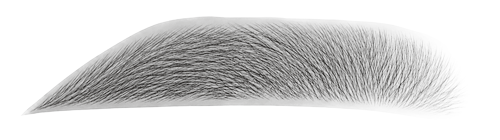
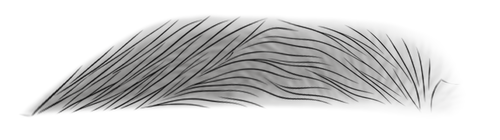
Build 100

Changed region(s): [[0.06, 0.1143, 0.9, 0.8286]]

diff --git a/sw.js b/sw.js
@@ -9,7 +9,7 @@
  *
  * clients.claim() 은 하지 않는다. 처음 연 날 화면이 한 번 더 새로 뜨는 것을 막는다.
  */
-const VERSION = "pmus-99";
+const VERSION = "pmus-100";
 const PRECACHE = ["assets/eyebrow_refs/female_arch_combo.png","assets/eyebrow_refs/female_arch_gradation.png","assets/eyebrow_refs/female_arch_natural.png","assets/eyebrow_refs/female_semiarch_combo.png","assets/eyebrow_refs/female_semiarch_gradation.png","assets/eyebrow_refs/female_semiarch_natural.png","assets/eyebrow_refs/female_straight_combo.png","assets/eyebrow_refs/female_straight_gradation.png","assets/eyebrow_refs/female_straight_natural.png","assets/eyebrow_refs/male_straight_combo.png","assets/eyebrow_refs/male_straight_gradation.png","assets/eyebrow_refs/male_straight_natural.png","assets/eyebrow_refs/sheet.png","assets/icons/icon-180.png","assets/icons/icon-192.png","assets/icons/icon-512.png","assets/icons/icon-maskable-512.png","assets/logo-full.png","assets/logo.png","assets/models/female_20s.jpg","assets/models/female_30s.jpg","assets/models/female_40s.jpg","assets/models/female_50s.jpg","assets/models/female_60s.jpg","assets/models/male_20s.jpg","assets/models/male_30s.jpg","assets/models/male_40s.jpg","assets/models/male_50s.jpg","assets/models/male_60s.jpg","changelog.json","css/app.css","css/brow.css","css/lip.css","css/mobile-ui.css","index.html","js/app.js","js/brow-canvas.js","js/brow-erase.js","js/brow-markup.html","js/custom-designs.js","js/face-detect.js","js/license.js","js/lip-canvas.js","js/lip-markup.html","js/mobile-ui.js","js/prepare-eyebrow.js","js/pwa.js","js/update.js","manifest.webmanifest","manual/index.html","manual/offline.html","models/face_landmarker.task","vendor/vision_bundle.mjs","vendor/wasm/vision_wasm_internal.js","vendor/wasm/vision_wasm_internal.wasm"];
 
 self.addEventListener("install", (e) => {

diff --git a/index.html b/index.html
@@ -12,12 +12,12 @@
 <meta name="mobile-web-app-capable" content="yes">
 <meta name="apple-mobile-web-app-status-bar-style" content="black-translucent">
 <meta name="apple-mobile-web-app-title" content="PMUS">
-<link rel="stylesheet" href="css/app.css?v=99">
+<link rel="stylesheet" href="css/app.css?v=100">
 </head>
 <body>
 
 <header class="app-bar">
-    <img src="assets/logo.png?v=99" alt="PMUS" class="app-logo" onerror="this.style.display='none'">
+    <img src="assets/logo.png?v=100" alt="PMUS" class="app-logo" onerror="this.style.display='none'">
     <h1 class="app-title">PMUS 반영구 시뮬레이터</h1>
     <div class="app-bar-end">
         <button id="diag-btn" class="diag-btn" type="button">버전</button>
@@ -28,7 +28,7 @@
 <!-- ── 라이선스 활성화 화면 ───────────────────────────────────────── -->
 <section id="license-gate" class="step license-gate" hidden>
     <div class="lic-card">
-        <img src="assets/logo-full.png?v=99" alt="PMUS — Permanent Makeup Simulator" class="lic-logo">
+        <img src="assets/logo-full.png?v=100" alt="PMUS — Permanent Makeup Simulator" class="lic-logo">
         <h2 class="lic-title">라이선스 등록</h2>
         <p class="lic-desc" id="lic-message">
             이 앱을 사용하려면 라이선스 등록이 필요합니다.<br>
@@ -315,7 +315,7 @@
     </div>
 </div>
 
-<script type="module" src="js/pwa.js?v=99"></script>
-<script type="module" src="js/app.js?v=99"></script>
+<script type="module" src="js/pwa.js?v=100"></script>
+<script type="module" src="js/app.js?v=100"></script>
 </body>
 </html>

diff --git a/js/mobile-ui.js b/js/mobile-ui.js
@@ -1436,14 +1436,15 @@
     if (isBrow) {
         // 현장에서 실제로 만지는 네 가지. 나머지는 메뉴얼에 그대로 남는다.
         // 원래 눈썹이 진한 고객은 이것부터 낮춰야 디자인이 보인다 — 맨 위에 둔다.
-        borrow(rowOf("rngNatBrow"), "🔅 기존 눈썹 진하기 ");
-        borrow(rowOf("rngHeight"), "↕ 굵기 ");
-        borrow(rowOf("rngWidth"), "↔ 길이 ");
-        borrow(rowOf("rngSpacing"), "↔ 눈썹 간격 ");
-        borrow(rowOf("rngVert"), "↕ 위아래 ");
-        borrow(rowOf("rngRot"), "↗ 각도 ");
-        // 색상 진하기. 고른 색 바로 아래에 붙인다.
+        // 순서 (2026-10-11 원장님): 컬러 → 투명도 → 기존 눈썹 진하기 → 간격 → 길이 → 두께 → 각도 → 위아래
+        // 색상 진하기(투명도)와 기존 눈썹 진하기는 고른 색 바로 아래에 붙인다.
         borrow(rowOf("rngOpacity"), null, qColorSlot);
+        borrow(rowOf("rngNatBrow"), "🔅 기존 눈썹 진하기 ", qColorSlot);
+        borrow(rowOf("rngSpacing"), "↔ 눈썹 간격 ");
+        borrow(rowOf("rngWidth"), "↔ 길이 ");
+        borrow(rowOf("rngHeight"), "↕ 두께 ");
+        borrow(rowOf("rngRot"), "↗ 각도 ");
+        borrow(rowOf("rngVert"), "↕ 위아래 ");
     } else {
         fullnessRows().forEach(function (r) {
             qSlot.appendChild(r); qExtra.push(r);

diff --git a/js/app.js b/js/app.js
@@ -10,13 +10,13 @@
  * =========================================================================
  */
 
-import { initFaceLandmarker, detectFaceGeometry, detectLipLandmarks, standardLipLandmarks, engineStatus } from "./face-detect.js?v=99";
-import { buildEyebrowConfig, lastCanvasRequest } from "./prepare-eyebrow.js?v=99";
-import * as License from "./license.js?v=99";
-import * as Custom from "./custom-designs.js?v=99";
-import * as Update from "./update.js?v=99";
+import { initFaceLandmarker, detectFaceGeometry, detectLipLandmarks, standardLipLandmarks, engineStatus } from "./face-detect.js?v=100";
+import { buildEyebrowConfig, lastCanvasRequest } from "./prepare-eyebrow.js?v=100";
+import * as License from "./license.js?v=100";
+import * as Custom from "./custom-designs.js?v=100";
+import * as Update from "./update.js?v=100";
 
-const BUILD = "99";                   // 에셋 캐시 무효화용 (수정 시 올릴 것)
+const BUILD = "100";                   // 에셋 캐시 무효화용 (수정 시 올릴 것)
 /**
  * 작업용 사진의 최대 변 길이.
  *
